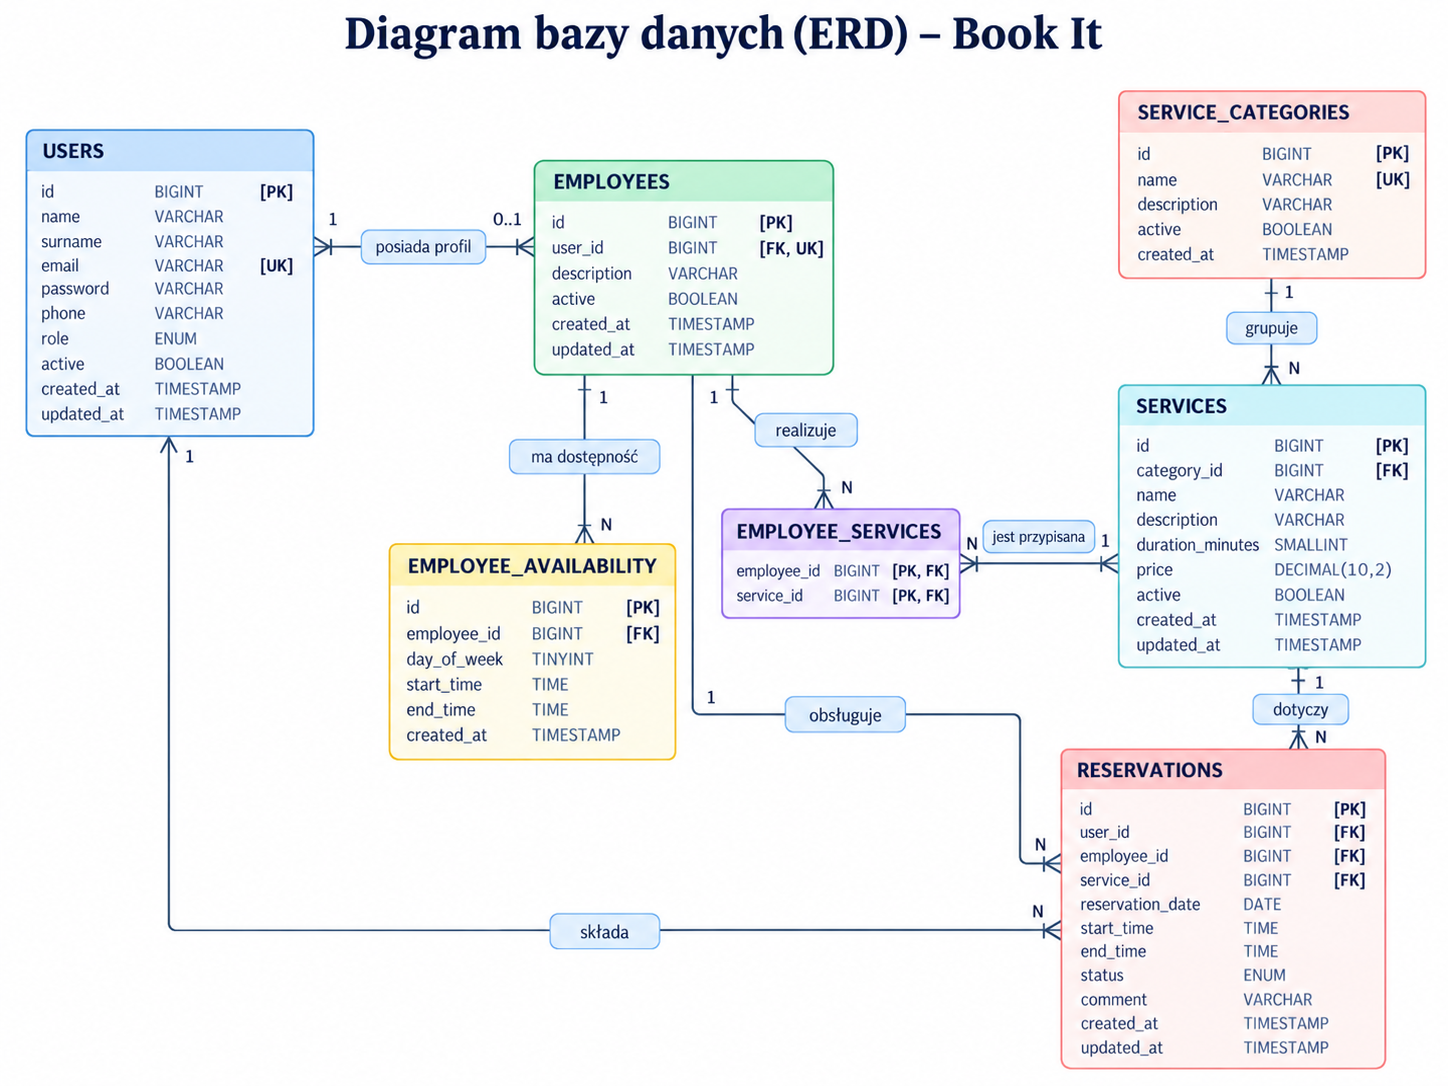
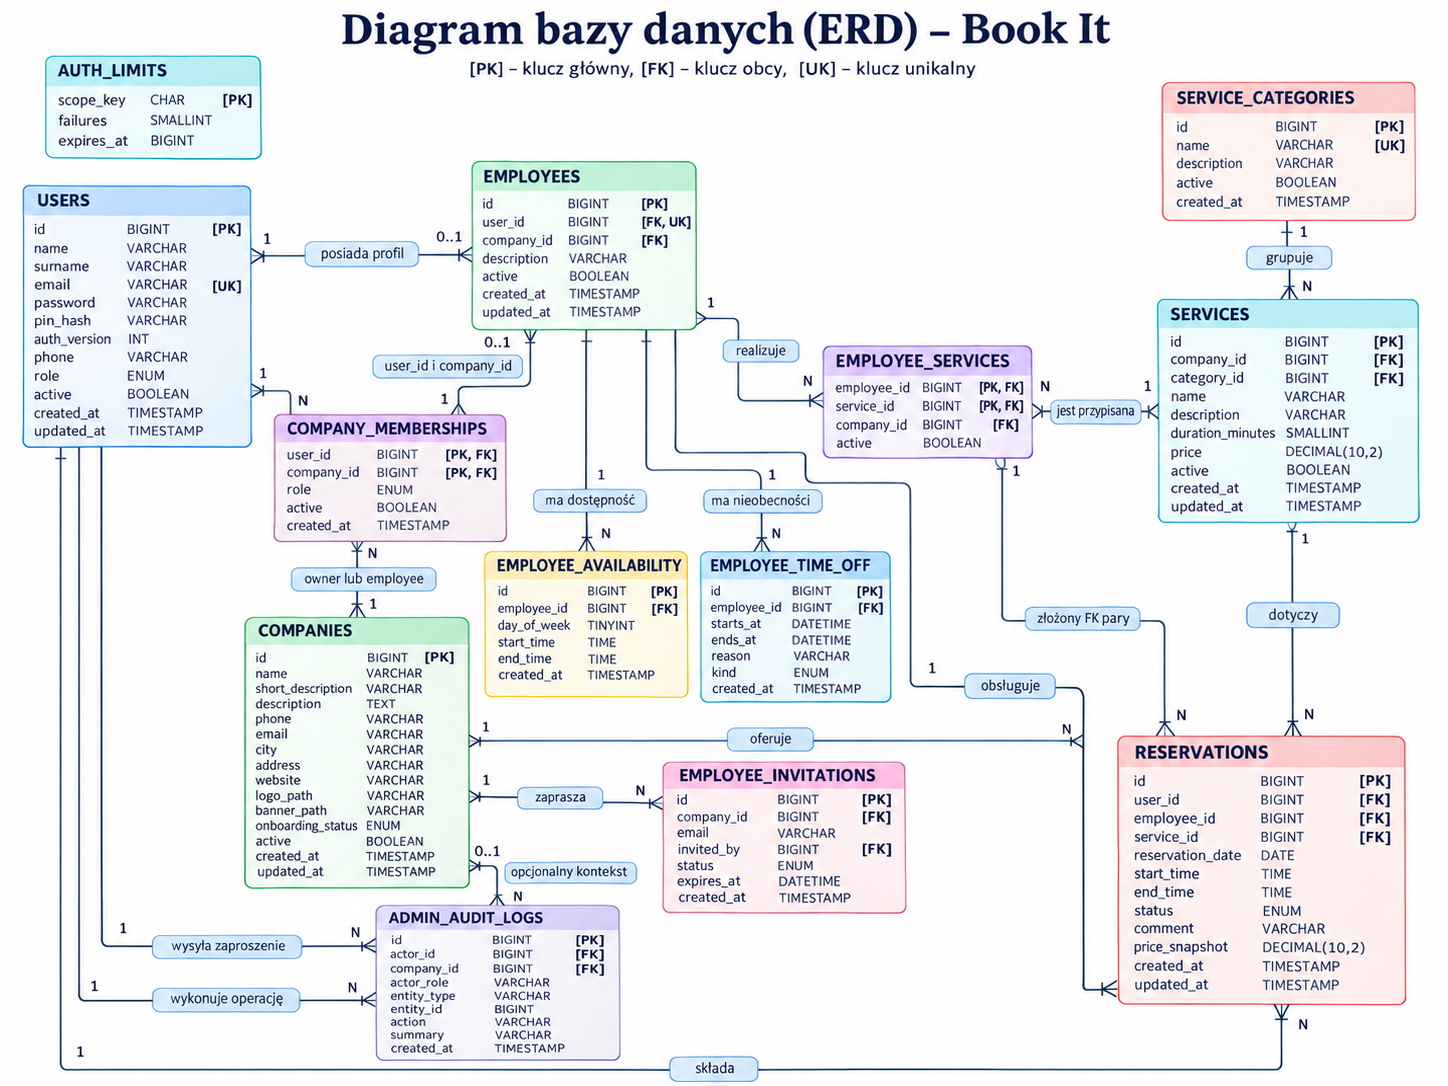
etap3 git

Changed region(s): [[0.0, 0.0304, 0.9945, 1.0], [0.2175, 0.0, 0.7769, 0.0912]]

diff --git a/README.md b/README.md
@@ -1,5 +1,7 @@
 # book.it
 
+
+
 **book.it** to internetowa platforma do rezerwacji usług, która umożliwia klientom znalezienie firmy, zapoznanie się z jej ofertą oraz zarezerwowanie dostępnego terminu online.
 
 W przeciwieństwie do tradycyjnych systemów rezerwacji przeznaczonych dla jednej firmy, book.it obsługuje wielu niezależnych usługodawców w ramach jednej aplikacji. Każda firma może posiadać własny profil, ofertę usług, pracowników, godziny dostępności oraz rezerwacje.
@@ -166,7 +168,6 @@ Konta demonstracyjne są przeznaczone wyłącznie do testów lokalnych. PIN moż
 
 ![Diagram bazy danych](assets/diagram_baza.png)
 
-*Diagram przedstawia pierwotny schemat bazy danych z Etapu 1. Aktualny model uwzględnia również firmy, członkostwa i dodatkowe elementy systemu kont.*
 
 ## Dokumentacja
 
